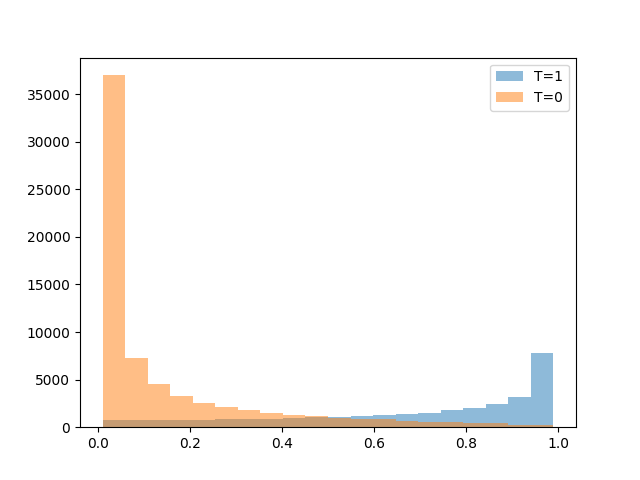
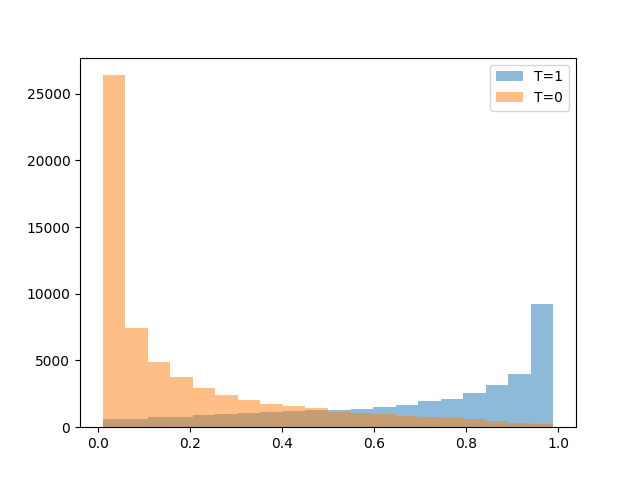
評価方法の変更

diff --git a/src/make_data.py b/src/make_data.py
@@ -4,7 +4,6 @@ import matplotlib.pyplot as plt
 import numpy as np
 from lightgbm import LGBMClassifier
 from numpy.typing import NDArray
-from sklearn.linear_model import LogisticRegression
 from sklearn.metrics import roc_auc_score
 from sklearn.model_selection import train_test_split
 
@@ -27,14 +26,13 @@ class DatasetGenerator:
         dataset: Dict[str, NDArray[Any]] = {}
         dataset |= self.generate_feature()
         dataset |= self.generate_treatment(dataset["features"])
-        auc_score = self.calculate_auc(dataset["T"], dataset["T_prob"])
-        # import pdb; pdb.set_trace()
+        # auc_score = self.calculate_auc(dataset["T"], dataset["T_prob"])
         if self.predict_ps:
             dataset |= self.predict_treatment(dataset["features"], dataset["T"])
             propensity_score = dataset["T_prob_pred"]
-            rmse = self.calculate_rmse(dataset["T_prob"], dataset["T_prob_pred"])
         else:
             propensity_score = dataset["T_prob"]
+        # rmse = self.calculate_rmse(dataset["T_prob"], propensity_score)
         dataset |= self.generate_visit(dataset["features"], dataset["T"])
         dataset |= self.generate_conversion(
             dataset["features"], dataset["T"], dataset["y_c"]
@@ -59,20 +57,9 @@ class DatasetGenerator:
 
     def generate_treatment(self, features: NDArray[Any]) -> Dict[str, NDArray[Any]]:
         np.random.seed(self.seed)
-        logistic_model = LogisticRegression(max_iter=1000)
-        target = (
-            np.dot(features, np.random.uniform(0.1, 0.5, size=features.shape[1]))
-            - 0.5
-            + np.random.normal(0, 0.5, size=len(features))
-            > 0
-        ).astype(int)
-        logistic_model.fit(features, target)
-        T_prob = logistic_model.predict_proba(features)[:, 1]
-        # T_prob = sigmoid(
-        #     np.dot(features, np.random.uniform(0.1, 0.5, size=features.shape[1]))
-        #     - 0.5
-        #     + np.random.normal(0, 0.5, size=len(features))
-        # )
+        T_prob = sigmoid(
+            np.sum(features, axis=1) - 1 + np.random.normal(0, 0.5, size=len(features))
+        )
         T_prob = T_prob.clip(0.01, 0.99)
         T: NDArray[Any] = np.random.binomial(1, T_prob).astype(bool)
         treatment_prob = T_prob[T == 1]
@@ -119,15 +106,15 @@ class DatasetGenerator:
         self,
         features: NDArray[Any],
         T: NDArray[Any],
-    ) -> Dict[str, NDArray[Any]]:
+    ) -> dict[str, NDArray[Any]]:
         np.random.seed(self.seed)
-        interaction_effects = np.exp(features[:, 0] + features[:, 3]) * 0.2
+        interaction_effect = np.exp(1 * (features[:, 0] + features[:, 3]))
         baseline_effect = 0.2 + features[:, 2] + features[:, 4]
-        treatment_effect = T * interaction_effects
+        treatment_effect = T * interaction_effect
         std = self.delta * np.sqrt(np.pi / 2)
         noise = np.random.normal(0, std, size=len(features))
         prob_visit = np.clip(
-            sigmoid(baseline_effect + treatment_effect) + noise,
+            sigmoid(baseline_effect + treatment_effect - 1.0) + noise,
             0.05,
             0.95,
         )
@@ -135,7 +122,16 @@ class DatasetGenerator:
         plt.clf()
         plt.hist(prob_visit, bins=20, alpha=0.5, label="Visit")
         plt.savefig("visit_prob.png")
-        return {"y_c": visit}
+        # import pdb
+
+        # pdb.set_trace()
+        true_tau_c = sigmoid(baseline_effect + interaction_effect - 1.0) - sigmoid(
+            baseline_effect - 1.0
+        )
+        return {
+            "y_c": visit,
+            "true_tau_c": true_tau_c,
+        }
 
     def generate_conversion(
         self,
@@ -145,13 +141,13 @@ class DatasetGenerator:
     ) -> Dict[str, NDArray[Any]]:
         np.random.seed(self.seed)
         noise = np.random.normal(0, self.delta, size=len(features))
-        interaction_effects_purchase = np.exp(features[:, 1] + features[:, 6]) * 0.2
+        interaction_effect_purchase = np.exp(1 * (features[:, 1] + features[:, 6]))
         baseline_effect_purchase = 0.1 + features[:, 5] + features[:, 7]
-        treatment_effect_purchase = T * interaction_effects_purchase
+        treatment_effect_purchase = T * interaction_effect_purchase
         std = self.delta * np.sqrt(np.pi / 2)
         noise = np.random.normal(0, std, size=len(features))
         prob_purchase = np.clip(
-            sigmoid(baseline_effect_purchase + treatment_effect_purchase) + noise,
+            sigmoid(baseline_effect_purchase + treatment_effect_purchase - 1) + noise,
             0.10,
             0.90,
         )
@@ -160,7 +156,10 @@ class DatasetGenerator:
         plt.hist(prob_purchase, bins=20, alpha=0.5, label="Purchase")
         plt.savefig("purchase_prob.png")
         # import pdb; pdb.set_trace()
-        return {"y_r": purchase}
+        true_tau_r = sigmoid(baseline_effect_purchase + interaction_effect_purchase - 1) - sigmoid(
+            baseline_effect_purchase - 1
+        )
+        return {"y_r": purchase, "true_tau_r": true_tau_r}
 
     def culculate_doubly_robust(
         self,

diff --git a/src/evaluate/evaluate.py b/src/evaluate/evaluate.py
@@ -6,12 +6,47 @@ from numpy.typing import NDArray
 from scipy.integrate import quad
 from scipy.interpolate import interp1d
 
+# def calculate_values(
+#     roi_scores: NDArray[Any],
+#     T_test: NDArray[Any],
+#     y_r_test: NDArray[Any],
+#     y_c_test: NDArray[Any],
+# ) -> Tuple[Any, Any]:
+#     sorted_indices = np.argsort(roi_scores)[::-1]
+#     p_values = np.linspace(0, 1, 50)
+#     incremental_costs = []
+#     incremental_values = []
+
+#     for p in p_values:
+#         top_p_indices = sorted_indices[: int(p * len(roi_scores))]
+#         treatment_indices = T_test[top_p_indices] == 1
+
+#         # ATE (Average Treatment Effect) の計算
+#         ATE_Yr = np.mean(y_r_test[top_p_indices][treatment_indices]) - np.mean(
+#             y_r_test[top_p_indices][~treatment_indices]
+#         )
+#         ATE_Yc = np.mean(y_c_test[top_p_indices][treatment_indices]) - np.mean(
+#             y_c_test[top_p_indices][~treatment_indices]
+#         )
+
+#         incremental_costs.append(ATE_Yc * np.sum(treatment_indices))
+#         incremental_values.append(ATE_Yr * np.sum(treatment_indices))
+#         # print(ATE_Yr , ATE_Yc,np.sum(treatment_indices))
+#     # nanがあれば0に変換
+#     incremental_costs = np.array(incremental_costs)
+#     incremental_values = np.array(incremental_values)
+#     incremental_costs[np.isnan(incremental_costs)] = 0
+#     incremental_values[np.isnan(incremental_values)] = 0
+#     incremental_costs[0] = 0
+#     incremental_values[0] = 0
+
+#     return incremental_costs, incremental_values
+
 
 def calculate_values(
     roi_scores: NDArray[Any],
-    T_test: NDArray[Any],
-    y_r_test: NDArray[Any],
-    y_c_test: NDArray[Any],
+    true_tau_r: NDArray[Any],
+    true_tau_c: NDArray[Any],
 ) -> Tuple[Any, Any]:
     sorted_indices = np.argsort(roi_scores)[::-1]
     p_values = np.linspace(0, 1, 50)
@@ -20,19 +55,13 @@ def calculate_values(
 
     for p in p_values:
         top_p_indices = sorted_indices[: int(p * len(roi_scores))]
-        treatment_indices = T_test[top_p_indices] == 1
 
         # ATE (Average Treatment Effect) の計算
-        ATE_Yr = np.mean(y_r_test[top_p_indices][treatment_indices]) - np.mean(
-            y_r_test[top_p_indices][~treatment_indices]
-        )
-        ATE_Yc = np.mean(y_c_test[top_p_indices][treatment_indices]) - np.mean(
-            y_c_test[top_p_indices][~treatment_indices]
-        )
+        ATE_Yr = np.mean(true_tau_r[top_p_indices])
+        ATE_Yc = np.mean(true_tau_c[top_p_indices])
 
-        incremental_costs.append(ATE_Yc * np.sum(treatment_indices))
-        incremental_values.append(ATE_Yr * np.sum(treatment_indices))
-        import pdb; pdb.set_trace()
+        incremental_costs.append(ATE_Yc * len(top_p_indices))
+        incremental_values.append(ATE_Yr * len(top_p_indices))
         # print(ATE_Yr , ATE_Yc,np.sum(treatment_indices))
     # nanがあれば0に変換
     incremental_costs = np.array(incremental_costs)
@@ -50,7 +79,7 @@ def cost_curve(
 ) -> None:
     normalized_costs = incremental_costs / incremental_costs.max()
     normalized_values = incremental_values / incremental_values.max()
-    
+
     # グラフ描画
     plt.plot(normalized_costs, normalized_values, label=label)
     plt.plot([0, 1], [0, 1], linestyle="--", color="gray")
@@ -60,16 +89,21 @@ def cost_curve(
     plt.savefig("cost_curve.png")
 
     # 線形補間による関数の定義
-    curve_function = interp1d(normalized_costs, normalized_values, fill_value="extrapolate")
-    
+    curve_function = interp1d(
+        normalized_costs, normalized_values, fill_value="extrapolate"
+    )
+
     # y = x 関数との差を積分（y = x より上の部分のみ）
     def area_above_y_equals_x(x: float) -> float:
         difference = curve_function(x) - x
         return difference
-    
+
     # 0から1まで積分
     area, error = quad(area_above_y_equals_x, 0, 1)
-    print(f"The area above y = x is approximately {area:.4f}, with an error of {error:.4e}.")
+    print(
+        f"The area above y = x is approximately {area:.4f}, with an error of {error:.4e}."
+    )
+
 
 # # 例として適用するデータ
 # incremental_costs = np.array([0, 0.25, 0.5, 0.75, 1])

diff --git a/main.py b/main.py
@@ -39,7 +39,7 @@ def main(predict_ps: bool) -> None:
     n_samples = 100_000
     n_features = 8
     num_epochs = 50
-    lr = 0.01
+    lr = 0.001
     delta = 0.0
     batch_size = 128
     model_name = "Direct"
@@ -50,9 +50,9 @@ def main(predict_ps: bool) -> None:
     dataset = dataset.generate_dataset()
     train_dataset, val_dataset, test_dataset = split_dataset(dataset)
     model = get_model(model_name=model_name, model_params=model_params)
-    method_list: list = ["DR",
-                         "IPW",
-                         "Direct"
+    method_list: list = ["DR", 
+                        #  "IPW", 
+                        #  "Direct"
                          ]
     roi_dic = {}
     for method in method_list:
@@ -93,10 +93,11 @@ def main(predict_ps: bool) -> None:
         test_dataset["features"],
     )
     roi_dic["TPMSL"] = roi_tpmsl
+    roi_dic["Optimal"] = test_dataset["true_tau_r"] / test_dataset["true_tau_c"]
     plt.clf()
     for roi in roi_dic:
         incremental_costs, incremental_values = calculate_values(
-            roi_dic[roi], test_dataset["T"], test_dataset["y_r"], test_dataset["y_c"]
+            roi_dic[roi], test_dataset["true_tau_r"], test_dataset["true_tau_c"]
         )
         cost_curve(incremental_costs, incremental_values, label=roi)
 
